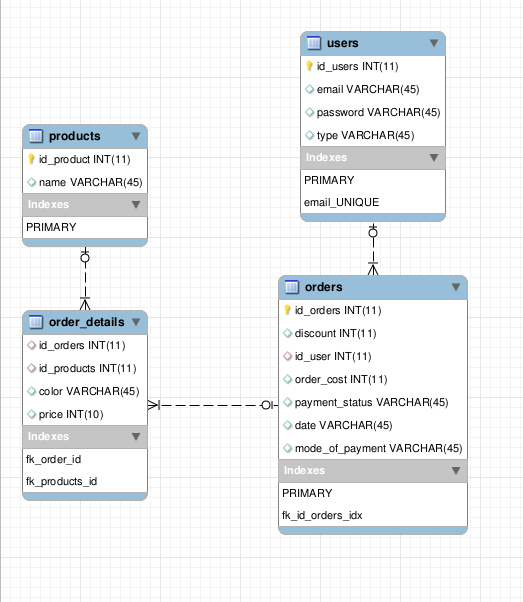
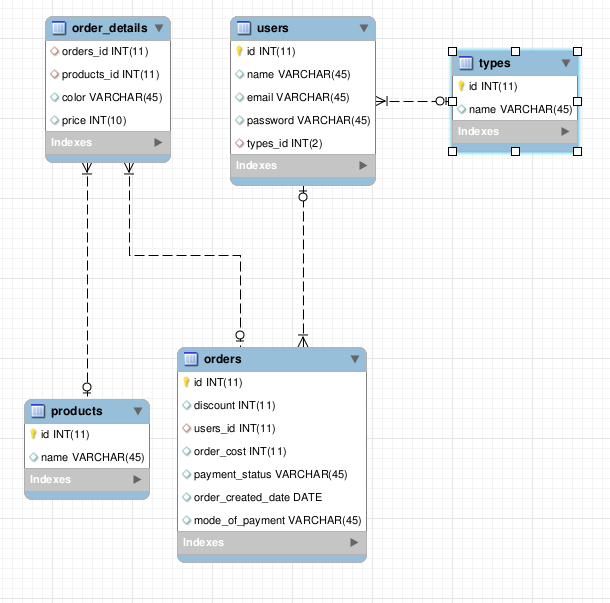
RDBMS :  Create Revised Database Schema

diff --git a/UpdatedDBResults.php b/UpdatedDBResults.php
@@ -14,57 +14,64 @@
 				if(mysql_select_db($db,$conn))
 				{
 					$createOrderDetQuery="CREATE TABLE IF NOT EXISTS `order_details` (
-  `id_orders` int(11) DEFAULT NULL,
-  `id_products` int(11) DEFAULT NULL,
+  `orders_id` int(11) DEFAULT NULL,
+  `products_id` int(11) DEFAULT NULL,
   `color` varchar(45) DEFAULT 'NA',
   `price` int(10) DEFAULT NULL,
-  KEY `fk_order_id` (`id_orders`),
-  KEY `fk_products_id` (`id_products`),
-  CONSTRAINT `fk_order_id` FOREIGN KEY (`id_orders`) REFERENCES `orders` (`id_orders`),
-  CONSTRAINT `fk_products_id` FOREIGN KEY (`id_products`) REFERENCES `products` (`id_product`)
+  KEY `fk_orders_id` (`orders_id`),
+  KEY `fk_products_id` (`products_id`),
+  CONSTRAINT `fk_orders_id` FOREIGN KEY (`orders_id`) REFERENCES `orders` (`id`),
+  CONSTRAINT `fk_products_id` FOREIGN KEY (`products_id`) REFERENCES `products` (`id`)
 )";
 				$insertOrderDetails="INSERT IGNORE INTO `order_details` VALUES (111,1,'black',90),(111,2,'blue',9800),(112,3,'black',98000),(112,5,'yellow',800),(113,4,'Green',5000),(113,3,'Red',54000)";
 				$createorderQuery="CREATE TABLE IF NOT EXISTS `orders` (
-  `id_orders` int(11) NOT NULL,
+  `id` int(11) NOT NULL,
   `discount` int(11) DEFAULT '0',
-  `id_user` int(11) DEFAULT NULL,
+  `users_id` int(11) DEFAULT NULL,
   `order_cost` int(11) DEFAULT NULL,
   `payment_status` varchar(45) DEFAULT NULL,
-  `date` varchar(45) DEFAULT NULL,
+  `order_created_date` date DEFAULT NULL,
   `mode_of_payment` varchar(45) DEFAULT NULL,
-  PRIMARY KEY (`id_orders`),
-  KEY `fk_id_orders_idx` (`id_user`),
-  CONSTRAINT `fk_id_orders` FOREIGN KEY (`id_user`) REFERENCES `users` (`id_users`) ON DELETE NO ACTION ON UPDATE NO ACTION
+  PRIMARY KEY (`id`),
+  CONSTRAINT `fk_users_id` FOREIGN KEY (`users_id`) REFERENCES `users` (`id`)
 )";
 				$insertOrder="INSERT IGNORE INTO `orders` VALUES (111,0,101,9890,'success','2016-11-11','cash'),(112,5,103,93860,'Failed','2015-1-1','debit card'),(113,10,105,53100,'success','2014-6-5','credit card')";
 				$createproductsQuery="CREATE TABLE IF NOT EXISTS `products` (
-  `id_product` int(11) NOT NULL,
+  `id` int(11) NOT NULL,
   `name` varchar(45) DEFAULT NULL,
-  PRIMARY KEY (`id_product`)
+  PRIMARY KEY (`id`)
 )";
 				$insertProducts="INSERT IGNORE INTO `products` VALUES (1,'Shoes'),(2,'Shirt'),(3,'Trousers'),(4,'Bag'),(5,'Sweaters')";
-				$createusersQuery="CREATE TABLE `users` (
-  `id_users` int(11) NOT NULL,
+				$createusersQuery="CREATE TABLE IF NOT EXISTS `users` (
+  `id` int(11) NOT NULL,
   `name` varchar(45) DEFAULT NULL,
   `email` varchar(45) DEFAULT NULL,
   `password` varchar(45) DEFAULT NULL,
-  `type` varchar(45) DEFAULT NULL,
-  PRIMARY KEY (`id_users`),
+  `types_id` int(2) DEFAULT NULL,
+  PRIMARY KEY (`id`),
+  CONSTRAINT `fk_types_id` FOREIGN KEY (`types_id`) REFERENCES `types` (`id`),
   UNIQUE KEY `email_UNIQUE` (`email`)
 )";
-					$insertUsers="INSERT INTO `users` VALUES (101,'XYZ','xyz@xyz.com','xyz','buyer'),(102,'ABC','abc@abc.com','abc','inventory manager'),(103,'PQR','pqr@pqr.com','pqr','buyer'),(104,'DEF','def@def.com','def','inventory manager'),(105,'UVW','uvw@uvw.com','uvw','buyer')";
-					if(mysql_query($createusersQuery)and mysql_query($createorderQuery) and mysql_query($createproductsQuery) and mysql_query($createOrderDetQuery) and mysql_query($insertUsers) and mysql_query($insertProducts) and mysql_query($insertOrder) and mysql_query($insertOrderDetails))
+				$insertUsers="INSERT IGNORE INTO `users` VALUES (101,'XYZ','xyz@xyz.com','xyz',1),(102,'ABC','abc@abc.com','abc',2),(103,'PQR','pqr@pqr.com','pqr',1),(104,'DEF','def@def.com','def',2),(105,'UVW','uvw@uvw.com','uvw',1)";
+				$createtypesQuery="CREATE TABLE IF NOT EXISTS `types` (
+  `id` int(11) NOT NULL,
+  `name` varchar(45) DEFAULT NULL,
+  PRIMARY KEY (`id`)
+  )";
+  					$inserttypes="INSERT IGNORE INTO `types` VALUES (1,'Buyer'),(2,'Inventory Manager')";
+					
+					if(mysql_query($createtypesQuery) and mysql_query($createusersQuery)and mysql_query($createorderQuery) and mysql_query($createproductsQuery) and mysql_query($createOrderDetQuery) and mysql_query($inserttypes) and mysql_query($insertUsers) and mysql_query($insertProducts) and mysql_query($insertOrder) and mysql_query($insertOrderDetails))
 					{
 					//Updating cost with discount
-						$q="SELECT orders.id_orders,sum(order_details.price) - sum(order_details.price) * (orders.discount/100) FROM MysqlAs1.order_details,orders,products
-								where order_details.id_orders=orders.id_orders
-								and order_details.id_products=products.id_product
-								Group by orders.id_orders";
+						$q="SELECT orders.id,sum(order_details.price) - sum(order_details.price) * (orders.discount/100) FROM MysqlAs1.order_details,orders,products
+								where order_details.orders_id=orders.id
+								and order_details.products_id=products.id
+								Group by orders.id";
 						if($result=mysql_query($q))
 						{
 							while($row=mysql_fetch_row($result))
 							{
-								$up="UPDATE orders SET order_cost ='".$row[1]."' WHERE id_orders='".$row[0]."'";
+								$up="UPDATE orders SET order_cost ='".$row[1]."' WHERE id='".$row[0]."'";
 								if(mysql_query($up))
 								{
 									$flag=1;
@@ -76,28 +83,28 @@
 							}
 							if($flag==1)
 							{
-									echo "<b>Database updated successfully with Calculated discounted cost per order Using Query :- </b></br>SELECT orders.id_orders,sum(order_details.price) - sum(order_details.price) * (orders.discount/100)</br>FROM MysqlAs1.order_details,orders,products
-								</br>where order_details.id_orders=orders.id_orders
-								</br>and order_details.id_products=products.id_product
-								<br>Group by orders.id_orders</br>";
+									echo "<b>Database updated successfully with Calculated discounted cost per order Using Query :- </b></br>SELECT orders.id,sum(order_details.price) - sum(order_details.price) * (orders.discount/100) FROM MysqlAs1.order_details,orders,products
+								where order_details.orders_id=orders.id
+								and order_details.products_id=products.id
+								Group by orders.id</br>";
 							}
 						}
 						//creating asked view
 
-						$queryview= "create or replace view DbView as(SELECT orders.id_orders as Id,users.email as email,count(order_details.id_orders) as number_of_products,orders.date as date,orders.discount as discount,sum(order_details.price) - sum(order_details.price) * (orders.discount/100) as total_cost,orders.mode_of_payment as mode_of_payment,orders.payment_status as payment_status 
+						$queryview= "create or replace view DbView as(SELECT orders.id as Id,users.email as email,count(order_details.orders_id) as number_of_products,orders.order_created_date as date,orders.discount as discount,sum(order_details.price) - sum(order_details.price) * (orders.discount/100) as total_cost,orders.mode_of_payment as mode_of_payment,orders.payment_status as payment_status 
 			FROM MysqlAs1.order_details,orders,products,users
-			where order_details.id_orders=orders.id_orders
-			and order_details.id_products=products.id_product
-			and orders.id_user=users.id_users
-			Group by orders.id_orders)";
+			where order_details.orders_id=orders.id
+			and order_details.products_id=products.id
+			and orders.users_id=users.id
+			Group by orders.id)";
 						if(mysql_query($queryview))
 						{
-							echo "<b></br>DB view with order details of products sold Created Successfully Using query :-</b></br>create or replace view DbView as(SELECT orders.id_orders as Id,users.email as email,count(order_details.id_orders) as number_of_products,orders.date as date,orders.discount as discount,sum(order_details.price) - sum(order_details.price) * (orders.discount/100) as total_cost,orders.mode_of_payment as mode_of_payment,orders.payment_status as payment_status 
-			</br>FROM MysqlAs1.order_details,orders,products,users
-			</br>where order_details.id_orders=orders.id_orders
-			</br>and order_details.id_products=products.id_product
-			</br>and orders.id_user=users.id_users
-			Group by orders.id_orders)";
+							echo "<b></br>DB view with order details of products sold Created Successfully Using query :-</b></br>create or replace view DbView as(SELECT orders.id as Id,users.email as email,count(order_details.orders_id) as number_of_products,orders.order_created_date as date,orders.discount as discount,sum(order_details.price) - sum(order_details.price) * (orders.discount/100) as total_cost,orders.mode_of_payment as mode_of_payment,orders.payment_status as payment_status 
+			FROM MysqlAs1.order_details,orders,products,users
+			where order_details.orders_id=orders.id
+			and order_details.products_id=products.id
+			and orders.users_id=users.id
+			Group by orders.id)</br>";
 						}
 						else
 						{
@@ -105,41 +112,45 @@
 						}
 
 						//Report for sales of last month
-						$querylastmonth="SELECT orders.id_orders,users.email,users.name,GROUP_CONCAT(products.name),count(order_details.id_orders),orders.date,orders.discount,sum(order_details.price) - sum(order_details.price) * (orders.discount/100) ,orders.mode_of_payment,orders.payment_status
+						$querylastmonth="SELECT orders.id,users.email,users.name,GROUP_CONCAT(products.name),GROUP_CONCAT(order_details.price),count(order_details.orders_id),orders.order_created_date,orders.discount,sum(order_details.price) - sum(order_details.price) * (orders.discount/100) ,orders.mode_of_payment,orders.payment_status
 			FROM MysqlAs1.order_details,orders,products,users
-			where order_details.id_orders=orders.id_orders
-			and order_details.id_products=products.id_product
-			and orders.id_user=users.id_users
-			and orders.date > DATE_SUB(CURRENT_DATE(), INTERVAL 1 MONTH)
-			Group by orders.id_orders";
+			where order_details.orders_id=orders.id
+			and order_details.products_id=products.id
+			and orders.users_id=users.id
+			and orders.order_created_date > DATE_SUB(CURRENT_DATE(), INTERVAL 1 MONTH)
+			Group by orders.id";
 
-						echo "</br></br><b>Sales report generated using :-</b></br>SELECT orders.id_orders,users.email,users.name,GROUP_CONCAT(products.name),count(order_details.id_orders),orders.date,orders.discount,sum(order_details.price) - sum(order_details.price) * (orders.discount/100) ,orders.mode_of_payment,orders.payment_status
-			</br>FROM MysqlAs1.order_details,orders,products,users
-			</br>where order_details.id_orders=orders.id_orders
-			</br>and order_details.id_products=products.id_product
-			</br>and orders.id_user=users.id_users
-			</br>and orders.date > DATE_SUB(CURRENT_DATE(), INTERVAL 1 MONTH)
-			</br>Group by orders.id_orders";
+						echo "</br></br><b>Sales report generated using :-</b></br>SELECT orders.id,users.email,users.name,GROUP_CONCAT(products.name),GROUP_CONCAT(order_details.price),count(order_details.orders_id),orders.order_created_date,orders.discount,sum(order_details.price) - sum(order_details.price) * (orders.discount/100) ,orders.mode_of_payment,orders.payment_status
+			FROM MysqlAs1.order_details,orders,products,users
+			where order_details.orders_id=orders.id
+			and order_details.products_id=products.id
+			and orders.users_id=users.id
+			and orders.order_created_date > DATE_SUB(CURRENT_DATE(), INTERVAL 1 MONTH)
+			Group by orders.id";
 
 
 						echo "<h1 align=center>Sales for last month</h1>";
 						if($result=mysql_query($querylastmonth))
 						{
+
 							echo "<table border=1 cellspacing=0 width=950>";
 							echo "<th>Order id</th>";
 							echo "<th>Email</th>";
 							echo "<th>User Name</th>";
 							echo "<th>Name of Products</th>";
+							echo "<th>Price of each Product</th>";
 							echo "<th>Number of products</th>";
 							echo "<th>Date</th>";
 							echo "<th>Discount(%)</th>";
 							echo "<th>Order Total</th>";
 							echo "<th>Payment Mode</th>";
 							echo "<th>Payment Status</th>";
+
+
 							while($row=mysql_fetch_row($result))
 							{
 								echo "<tr>";
-								echo "<br><td>".$row[0]."</td><td>".$row[1]."</td><td>".$row[2]."</td><td>".$row[3]."</td><td>".$row[4]."</td><td>".$row[5]."</td><td>".$row[6]."</td><td>".$row[7]."</td><td>".$row[8]."</td><td>".$row[9]."</td>";
+								echo "<br><td>".$row[0]."</td><td>".$row[1]."</td><td>".$row[2]."</td><td>".$row[3]."</td><td>".$row[4]."</td><td>".$row[5]."</td><td>".$row[6]."</td><td>".$row[7]."</td><td>".$row[8]."</td><td>".$row[9]."</td><td>".$row[10]."</td>";
 								echo "</tr>";
 							}
 							echo "</table>";
